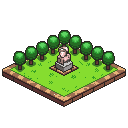
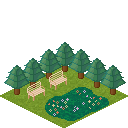
,

diff --git a/source/Game/States/GamePlayState.cpp b/source/Game/States/GamePlayState.cpp
@@ -89,7 +89,7 @@ namespace
 
     Math::ivec2 GetBuildingFootprint(BuildingType type)
     {
-        if (type == BuildingType::GRANARY || type == BuildingType::FARM)
+        if (type == BuildingType::GRANARY || type == BuildingType::FARM || type == BuildingType::PARK)
         {
             return { 2, 2 };
         }
@@ -937,6 +937,10 @@ void GamePlayState::Update(double dt)
     if (!humans.empty())
     {
         auto* resMgr = GetGSComponent<ResourceManager>().get();
+
+        const float parkDrainMult = std::max(0.5f, 1.0f - 0.015f * static_cast<float>(cityMetrics->GetParkCount()));
+        Human::SetParkHappinessDrainMult(parkDrainMult);
+
         for (size_t i = 0; i < humans.size(); ++i)
         {
             humans[i]->SetResourceManager(resMgr);
@@ -1136,6 +1140,32 @@ void GamePlayState::Update(double dt)
 
                     GridCell*         clickedCell = viewArray[gridY * GRID_SIZE_X + gridX];
                     const Math::ivec2 footprint   = GetBuildingFootprint(selectedBuild);
+
+                    // Multi-tile buildings: let the player click any covered tile, not just the
+                    // top-left anchor. Pick the first anchor whose footprint contains the clicked
+                    // tile and is fully valid (clicked-as-top-left is preferred to keep old feel).
+                    if ((footprint.x > 1 || footprint.y > 1) && selectedBuild != BuildingType::FLATTEN && selectedBuild != BuildingType::DELETE)
+                    {
+                        auto* road     = mapMgr->GetRoad();
+                        bool  resolved = false;
+                        for (int dy = 0; dy < footprint.y && !resolved; ++dy)
+                        {
+                            for (int dx = 0; dx < footprint.x && !resolved; ++dx)
+                            {
+                                int ax = gridX - dx;
+                                int ay = gridY - dy;
+                                if (ax < 0 || ay < 0 || ax + footprint.x > GRID_SIZE_X || ay + footprint.y > GRID_SIZE_Y)
+                                    continue;
+                                if (!AreaHasOnlyBuildableCells(map, ax, ay, footprint.x, footprint.y) || !tileMgr->CanPlaceArea(ax, ay, footprint.x, footprint.y))
+                                    continue;
+                                if (selectedBuild != BuildingType::ROAD && !AreaIsAdjacentToRoad(road, ax, ay, footprint.x, footprint.y))
+                                    continue;
+                                gridX    = ax;
+                                gridY    = ay;
+                                resolved = true;
+                            }
+                        }
+                    }
 
                     if (selectedBuild == BuildingType::FLATTEN)
                     {
@@ -1370,9 +1400,12 @@ void GamePlayState::Update(double dt)
                                 if (!consumeResources(BuildingType::PARK))
                                     break;
 
-                                auto* building = new ResidentBuilding(Math::fvec2(static_cast<float>(gridX), static_cast<float>(gridY)), 1, 1, 0, BuildingType::PARK);
+                                if (!map->LevelAreaToAverage(gridX, gridY, 2, 2))
+                                    break;
+
+                                auto* building = new ResidentBuilding(Math::fvec2(static_cast<float>(gridX), static_cast<float>(gridY)), 2, 2, 0, BuildingType::PARK);
                                 gameObjMgr->AddBuilding(building);
-                                tileMgr->AllocateTile(gridX, gridY, Dokev::TileType::RESIDENTIAL);
+                                tileMgr->AllocateArea(gridX, gridY, 2, 2, Dokev::TileType::RESIDENTIAL);
                                 placed = true;
                                 break;
                             }

diff --git a/source/Game/Managers/DKCityMetrics.cpp b/source/Game/Managers/DKCityMetrics.cpp
@@ -19,6 +19,7 @@ namespace Dokev
         int homeCapacity    = 0;
         int workplaceCount  = 0;
         int streetLightCount = 0;
+        parkCount            = 0;
 
         for (const auto& building : gameObjectManager->GetBuildings())
         {
@@ -38,11 +39,20 @@ namespace Dokev
             {
                 streetLightCount++;
             }
+
+            if (type == BuildingType::PARK && building->GetIsBuilt())
+            {
+                parkCount++;
+            }
         }
 
         // Update Happiness Manager
         happinessManager.UpdateFactors(humanCount, homeCapacity, workplaceCount, streetLightCount);
         averageHappiness = happinessManager.CalculateTotalHappiness();
+
+        constexpr float parkHappinessPerPark = 0.5f;
+        constexpr float parkHappinessCap     = 15.0f;
+        averageHappiness = std::min(100.0f, averageHappiness + std::min(parkHappinessCap, parkCount * parkHappinessPerPark));
 
         //  Update Immigration Manager
         int availableHomes = homeCapacity - humanCount;

diff --git a/source/Dokev/Managers/DKUIManager.cpp b/source/Dokev/Managers/DKUIManager.cpp
@@ -1455,13 +1455,13 @@ namespace Dokev
 
         DrawRectangleLinesEx(static_cast<int>(scaledPos.x), static_cast<int>(scaledPos.y), static_cast<int>(scaledSize.x), static_cast<int>(scaledSize.y), 3.0f, borderColor);
 
-        // Draw Building Texture.
+        // Draw Building Texture
         if (button.texture.IsValid())
         {
             int textureWidth  = button.texture.GetWidth();
             int textureHeight = button.texture.GetHeight();
 
-            float iconScaleMult = (button.type == BuildingType::FARM || button.type == BuildingType::GRANARY) ? 0.75f : 1.0f;
+            float iconScaleMult = (button.type == BuildingType::FARM || button.type == BuildingType::GRANARY || button.type == BuildingType::PARK) ? 0.75f : 1.0f;
             float iconScale    = static_cast<float>(ICON_SCALE) * scale * iconScaleMult;
             float scaledWidth  = textureWidth * iconScale;
             float scaledHeight = textureHeight * iconScale;

diff --git a/source/Game/Entities/Human.cpp b/source/Game/Entities/Human.cpp
@@ -41,6 +41,8 @@ namespace
     constexpr float gambleMinSafety   = 70.0f; // only gamble if night safety >= this
 }
 
+float Human::parkHappinessDrainMult = 1.0f;
+
 
 Human::Human(Math::fvec2 startGridPos) : currentGridPos(startGridPos), targetGridPos(startGridPos), currentPathIndex(0), isMoving(false)
 {
@@ -311,7 +313,7 @@ void Human::UpdateWorking(float deltaTime, int currentHour)
     const float gameHoursPerSecond = 24.0f / DayCycleManager::kDayDuration;
 
     stats.energy    = std::max(0.0f, stats.energy    - 10.0f * deltaTime * gameHoursPerSecond);
-    stats.happiness = std::max(0.0f, stats.happiness -  5.0f * deltaTime * gameHoursPerSecond);
+    stats.happiness = std::max(0.0f, stats.happiness -  5.0f * parkHappinessDrainMult * deltaTime * gameHoursPerSecond);
 
     float multiplier = (stats.energy / 100.0f) * (stats.happiness / 100.0f);
     float earned = stats.hourlyWage * multiplier * deltaTime * gameHoursPerSecond;

diff --git a/source/Game/Entities/ResidentBuilding.cpp b/source/Game/Entities/ResidentBuilding.cpp
@@ -144,9 +144,17 @@ void ResidentBuilding::Draw(int viewIndex, const GridMap* map, int x, int y)
         tint             = ApplyAlpha(tint, alpha);
     }
 
-    int drawX = (buildingType == BuildingType::STREET_LIGHT) ? x + TILE_WIDTH_HALF / 2 : x;
-    int drawY = (buildingType == BuildingType::STREET_LIGHT) ? y - TILE_HEIGHT_HALF : y;
-    texture.Draw(drawX, drawY, tint);
+    if (buildingType == BuildingType::PARK)
+    {
+        Math::ivec2 drawPos = CalculateScreenPosition(viewIndex, map);
+        texture.Draw(drawPos.x, drawPos.y, tint);
+    }
+    else
+    {
+        int drawX = (buildingType == BuildingType::STREET_LIGHT) ? x + TILE_WIDTH_HALF / 2 : x;
+        int drawY = (buildingType == BuildingType::STREET_LIGHT) ? y - TILE_HEIGHT_HALF : y;
+        texture.Draw(drawX, drawY, tint);
+    }
 
     if (!isBuilt)
     {

diff --git a/source/Game/Managers/DKCityMetrics.hpp b/source/Game/Managers/DKCityMetrics.hpp
@@ -29,6 +29,7 @@ namespace Dokev
 
         float averageHappiness    = 100.0f; // Average satisfaction level
         float happinessChangeRate = 0.0f;   // Rate of change per second (deprecated)
+        int   parkCount           = 0;      // Built parks, refreshed each UpdateSystems
 
         // Win condition
         int winConditionPopulation = 20;
@@ -42,6 +43,11 @@ namespace Dokev
         float GetHappiness() const
         {
             return averageHappiness;
+        }
+
+        int GetParkCount() const
+        {
+            return parkCount;
         }
 
         void SetHappinessChangeRate(float rate)

diff --git a/source/Game/Entities/Human.hpp b/source/Game/Entities/Human.hpp
@@ -219,6 +219,8 @@ public:
         resourceMgr = rm;
     }
 
+    static void SetParkHappinessDrainMult(float m) { parkHappinessDrainMult = m; }
+
     const std::string& GetName() const
     {
         return name;
@@ -298,4 +300,7 @@ private:
     // Homelessness / emigration
     float homelessTextTimer = 0.0f; // Accumulator for the periodic "Homeless" label
     bool  isEmigrating      = false; // Walking off the map to leave the city
+
+    // City-wide park buff set each frame from park count
+    static float parkHappinessDrainMult;
 };
